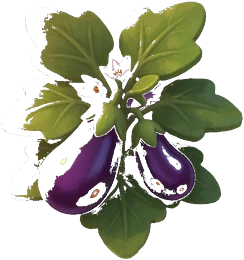
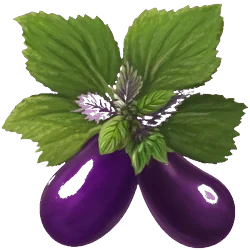
对齐宣传图 8.jpg：8 种成熟菜重画 + 垄沟田连成一块 + 远山去脏斑

diff --git a/src/js/mapview-iso.js b/src/js/mapview-iso.js
@@ -126,7 +126,7 @@
   const BLD = 0.7;   // global building-sprite scale (Chris 2026-06-18: buildings were too big) — shrinks all building sprites uniformly so the starter farm fits the central meadow
   const charmOf = (b) => Math.max(1, Math.round((b.cost || 0) / 8));
   const COOP_INTERVAL = 5 * 60 * 1000, COOP_REWARD = 30;   // 鸡舍每 5 分钟产一窝蛋，收一次 +30 农场币
-  const BED_W = 0.88;   // soil-bed width as a fraction of the cell → <1 leaves a grass gap so plots are distinct/tappable
+  const BED_W = 1.02;   // 宣传图是一整块垄沟田：格略重叠，垄线跨格连续
   // World-locked backdrop placement (mapview-iso _drawBackdrop). The landscape image's
   // focal point (BG_FX, BG_FY in image fractions = the central flat meadow) is pinned to
   // world cell (BG_ANCHOR_GX, BG_ANCHOR_GY) ≈ the farm start-area centre, and it scales
@@ -1617,11 +1617,22 @@
         ctx.ellipse(x + dx, y - s * 0.72 + dy, rx, ry, 0, 0, Math.PI * 2);
         ctx.fill();
       };
-      blob(0, s * 0.10, s * 0.50, s * 0.44, '#3a7038');
-      blob(-s * 0.24, s * 0.04, s * 0.36, s * 0.34, '#4a8640');
-      blob(s * 0.24, s * 0.06, s * 0.34, s * 0.32, '#4a8640');
-      blob(-s * 0.04, -s * 0.16, s * 0.30, s * 0.28, '#5fa04c');
-      blob(s * 0.10, -s * 0.10, s * 0.16, s * 0.14, 'rgba(255,220,140,0.22)');
+      blob(0, s * 0.08, s * 0.54, s * 0.48, '#3d7340');
+      blob(-s * 0.26, s * 0.02, s * 0.38, s * 0.36, '#52964a');
+      blob(s * 0.26, s * 0.04, s * 0.36, s * 0.34, '#4a8a42');
+      blob(-s * 0.02, -s * 0.20, s * 0.34, s * 0.30, '#6aad52');
+      blob(s * 0.12, -s * 0.12, s * 0.18, s * 0.16, 'rgba(255,220,140,0.28)');
+    },
+    _cypress(x, y, s) {
+      const ctx = this._ctx;
+      ctx.fillStyle = '#3d5c38';
+      ctx.beginPath();
+      ctx.ellipse(x, y - s * 0.95, s * 0.16, s * 0.95, 0, 0, Math.PI * 2);
+      ctx.fill();
+      ctx.fillStyle = '#5a7a40';
+      ctx.beginPath();
+      ctx.ellipse(x - s * 0.04, y - s * 1.15, s * 0.10, s * 0.55, 0, 0, Math.PI * 2);
+      ctx.fill();
     },
     _tuft(x, y, s) {
       const ctx = this._ctx; ctx.fillStyle = '#74b252';
@@ -1669,6 +1680,38 @@
     // Empty-plot soil bed: a painted soil cube EXTRACTED from a crop sprite, so it
     // matches the crops' own baked soil exactly → every plot (empty or planted) is a
     // consistent raised tilled bed. Bottom-anchored like the crops so heights line up.
+    _drawFurrowBed(c) {
+      // 宣传图那块田：扁的等距垄沟土面；垄线用屏幕斜率对齐，邻格连成一块田
+      const ctx = this._ctx, tw = this._tw(), th = this._th();
+      const w = tw * BED_W, h = th * BED_W;
+      const cy = c.y + th * 0.06;
+      this._diamond(c.x, cy, w, h);
+      const g = ctx.createLinearGradient(c.x - w * 0.45, cy - h * 0.35, c.x + w * 0.3, cy + h * 0.4);
+      g.addColorStop(0, '#c8965c');
+      g.addColorStop(0.42, '#a56a38');
+      g.addColorStop(1, '#6a3f20');
+      ctx.fillStyle = g;
+      ctx.fill();
+      ctx.save();
+      ctx.beginPath();
+      this._diamond(c.x, cy, w * 0.97, h * 0.93);
+      ctx.clip();
+      ctx.strokeStyle = 'rgba(62,34,14,0.42)';
+      ctx.lineWidth = Math.max(1.2, th * 0.08);
+      ctx.lineCap = 'round';
+      const slope = th / tw;
+      const spacing = th * 0.20;
+      const b0 = Math.round((cy - slope * c.x) / spacing) * spacing;
+      for (let k = -6; k <= 6; k++) {
+        const b = b0 + k * spacing;
+        const x1 = c.x - tw * 0.55, x2 = c.x + tw * 0.55;
+        ctx.beginPath();
+        ctx.moveTo(x1, slope * x1 + b);
+        ctx.lineTo(x2, slope * x2 + b);
+        ctx.stroke();
+      }
+      ctx.restore();
+    },
     _tilledDiamond(cx, cy) {
       const im = this._img.plot_bed, ctx = this._ctx, tw = this._tw(), th = this._th();
       if (im && im.width) { const w = tw * 1.04, s = w / im.width, hh = im.height * s; ctx.drawImage(im, cx - w / 2, cy + th * 0.6 - hh, w, hh); return; }
@@ -1683,14 +1726,8 @@
       // black "boards" / quilt). overlap a hair to hide anti-aliased seams.
       if (key === 'grass') return;   // grass = the smooth solid base fill (drawn in render); no per-tile quilt
       if (key === 'soil') {
-        // Chris's painted tilled-soil bed (raised cube). Drawn per plot → distinct
-        // raised beds on the green field, Hay-Day style. cy = top-face center fraction.
-        const im = this._img.hd_soil;
-        // BED_W < 1 leaves a small grass gap between adjacent beds so each plot
-        // reads as a DISTINCT, separately-tappable patch (Chris 2026-06-18: beds
-        // looked merged/stacked). Was tw*1.18 (overlapping → one brown mass).
-        if (im) { const w = tw * BED_W, sc = w / im.width, dh = im.height * sc; ctx.drawImage(im, c.x - w / 2, c.y - dh * 0.42, w, dh); return; }
-        this._diamond(c.x, c.y, tw * BED_W, th * BED_W); ctx.fillStyle = SOIL_TOP; ctx.fill(); return;
+        this._drawFurrowBed(c);
+        return;
       }
       // path / water = FLAT diamonds matching the flat ground (no raised cube → no
       // clash with the green field). Subtle detail keeps them readable.
@@ -2151,8 +2188,8 @@
       const hl = this._cell(0, -3).y;   // 林线 y(与 _drawHorizon 同一条对角线)
       // 整面铺草甸底色: 菱形之间的反锯齿细缝不再漏出天空色(亮格线的元凶)。
       // 从林脚以下起铺(hl+0.8th), 树脚由菱形格自然探上去咬合, 不再一刀切。
-      const gTop = Math.max(0, hl + th * 0.8);
-      ctx.fillStyle = 'rgb(132,168,68)';
+      const gTop = Math.max(0, hl + th * 2.8);
+      ctx.fillStyle = 'rgb(127,160,80)';
       ctx.fillRect(0, gTop, W, H - gTop);
       for (let gy = gy0; gy <= gy1; gy++) {
         for (let gx = gx0; gx <= gx1; gx++) {
@@ -2167,7 +2204,7 @@
           let rr, gg, bb2;
           // 农场基色: 大块起伏取代奇偶棋盘，近看也不像铺瓷砖
           const patch = Math.sin(gx * 0.52 + gy * 0.37) * 7 + Math.sin(gx * 0.19 - gy * 0.24) * 5;
-          const stripe = ((gx + gy) & 1) ? -1.2 : 0;
+          const stripe = ((gx + gy) & 1) ? -0.35 : 0;
           const nzIn = (r1 - 0.5) * 6;
           let fr = 134 + patch + stripe + nzIn, fg = 170 + patch * 0.85 + stripe + nzIn * 0.7, fb = 66 + patch * 0.4 + stripe * 0.6 + nzIn * 0.5;
           if (inWorld && !owned) { fr = fr * 0.95 + 7; fg = fg * 0.95 + 4; fb = fb * 0.93 + 7; }
@@ -2178,26 +2215,27 @@
           const dOut = Math.max(0, Math.max(-gx, -gy, gx - (COLS - 1), gy - (ROWS - 1)));
           const wMix = Math.max(0, Math.min(1, dOut / 6));
           rr = fr * (1 - wMix) + wr * wMix; gg = fg * (1 - wMix) + wg * wMix; bb2 = fb * (1 - wMix) + wb * wMix;
-          // 地平薄雾: 靠近林线的两行渐渐融进雾色
-          const dHl = (c.y - hl) / (th * 3.2);
+          // 地平：近山脚不画菱形格（宣传图远坡是一整片），再往前才淡入草地格
+          const dHl = (c.y - hl) / (th * 4.4);
+          if (dHl < 0.7) continue;
           if (dHl < 1) {
             const k = Math.max(0, Math.min(1, dHl));
             rr = rr * k + HAZE.r * (1 - k); gg = gg * k + HAZE.g * (1 - k); bb2 = bb2 * k + HAZE.b * (1 - k);
           }
-          // 远景收掉菱形条带对比，草地更像宣传图的一整片，而不是格子被单
-          if (dHl < 2.4) {
-            const fade = Math.max(0, Math.min(1, 1 - dHl / 2.4));
-            const midR = (rr + 132) / 2, midG = (gg + 168) / 2, midB = (bb2 + 68) / 2;
-            rr = rr * (1 - fade) + midR * fade;
-            gg = gg * (1 - fade) + midG * fade;
-            bb2 = bb2 * (1 - fade) + midB * fade;
+          if (dHl < 1.8) {
+            const fade = Math.max(0, Math.min(1, 1 - dHl / 1.8));
+            rr = rr * (1 - fade) + 127 * fade;
+            gg = gg * (1 - fade) + 160 * fade;
+            bb2 = bb2 * (1 - fade) + 80 * fade;
           }
           ctx.fillStyle = 'rgb(' + (rr | 0) + ',' + (gg | 0) + ',' + (bb2 | 0) + ')';
+          ctx.globalAlpha = dHl < 1.15 ? Math.max(0.15, (dHl - 0.7) / 0.45) : 1;
           this._diamond(c.x, c.y, tw * 1.08, th * 1.08);
           ctx.fill();
+          ctx.globalAlpha = 1;
           // 点缀: 草簇(内外都有, 外面更密) / 小花(只在农场内)
           const tuftP = inWorld ? 0.82 : 0.72;
-          if (r2 > tuftP && dHl > 0.55) {
+          if (r2 > tuftP && dHl > 1.15) {
             ctx.strokeStyle = inWorld ? '#5e8a38' : '#6d8840';
             ctx.lineWidth = Math.max(0.8, tw * 0.018); ctx.lineCap = 'round';
             const bx = c.x + (r1 - 0.5) * tw * 0.4, byy = c.y + (r2 - 0.5) * th * 0.4;
@@ -2222,27 +2260,8 @@
     },
     /* 云杉林的长影子：光从左上打来，影子往右下铺在草甸上。
        跟宣传图同一套光方向；画进相机缓存，30fps 零成本。 */
-    _drawTreeShadows(W, H, hl) {
-      const ctx = this._ctx, tw = this._tw(), th = this._th();
-      if (hl > H + th * 4 || hl < -th * 8) return;
-      ctx.save();
-      const step = tw * 1.35;
-      const x0 = -((this._camX * 0.7) % step) - step * 2;
-      for (let x = x0; x < W + step * 2; x += step) {
-        const seed = Math.abs(Math.round((x + this._camX) / step));
-        const hsh = ((seed * 2654435761) >>> 0) % 1000 / 1000;
-        if (hsh < 0.38) continue;
-        const len = th * (3.6 + hsh * 5.2);
-        const wid = tw * (0.42 + hsh * 0.28);
-        const ang = 0.58 + (hsh - 0.5) * 0.22;
-        const cx = x + tw * (0.6 + hsh * 0.5);
-        const cy = hl + th * 1.8 + len * 0.40;
-        ctx.fillStyle = 'rgba(32,44,16,0.08)';
-        ctx.beginPath(); ctx.ellipse(cx, cy, wid * 1.45, len * 1.12, ang, 0, 6.283); ctx.fill();
-        ctx.fillStyle = 'rgba(32,44,16,' + (0.12 + hsh * 0.06) + ')';
-        ctx.beginPath(); ctx.ellipse(cx, cy, wid, len, ang, 0, 6.283); ctx.fill();
-      }
-      ctx.restore();
+    _drawTreeShadows() {
+      // 云杉墙已经改成坡上散树，旧的林脚长影子会变成半山腰脏斑，不再画。
     },
     /* 整幅暖光罩：让作物/建筑贴图也沾上宣传图的金色侧光，很淡，不把菜染黄。 */
     _drawGoldenHour(W, H) {
@@ -2312,41 +2331,35 @@
       const ctx = this._ctx, tw = this._tw(), th = this._th();
       const hl = this._cell(0, -3).y;
       if (hl > H + th * 6) return;
+      // 对齐宣传图 8.jpg：远景是金绿滚圆草坡 + 零星圆树，没有锯齿云杉墙
       const hill = (yOff, amp, col, phase) => {
         ctx.fillStyle = col;
         ctx.beginPath();
-        const n = 28;
+        const n = 32;
         for (let i = 0; i <= n; i++) {
           const x = (i / n) * W;
-          const wx = (x + this._camX * 0.35) / (W / 2.2);
-          const ph = Math.sin(wx + phase) * amp + Math.sin(wx * 2.3 + phase * 1.7) * amp * 0.35;
+          const wx = (x + this._camX * 0.28) / (W / 2.4);
+          const ph = Math.sin(wx + phase) * amp + Math.sin(wx * 1.7 + phase * 1.4) * amp * 0.4;
           if (i === 0) ctx.moveTo(x, hl - yOff + ph); else ctx.lineTo(x, hl - yOff + ph);
         }
-        ctx.lineTo(W, hl + th * 2); ctx.lineTo(0, hl + th * 2); ctx.closePath(); ctx.fill();
+        ctx.lineTo(W, hl + th * 3); ctx.lineTo(0, hl + th * 3); ctx.closePath(); ctx.fill();
       };
-      hill(th * 6.2, th * 1.05, '#d2c4a0', 0.4);
-      hill(th * 4.6, th * 0.95, '#b8b07a', 1.6);
-      hill(th * 3.1, th * 1.15, '#7f9a58', 2.9);
-      ctx.fillStyle = '#2c4632';
-      ctx.beginPath();
-      ctx.moveTo(-tw, hl + th * 1.15);
-      const band = 22;
-      for (let i = 0; i <= band; i++) {
-        const x = (i / band) * W;
-        const wx = (x + this._camX) / (tw * 1.4);
-        ctx.lineTo(x, hl - th * (0.15 + 0.22 * (0.5 + 0.5 * Math.sin(wx * 1.7))));
-      }
-      ctx.lineTo(W + tw, hl + th * 1.15);
-      ctx.closePath();
-      ctx.fill();
-      const step = tw * 0.44;
-      const x0 = -((this._camX * 1.0) % step) - step * 2;
-      for (let x = x0; x < W + step * 2; x += step) {
-        const seed = Math.abs(Math.round((x + this._camX) / step));
+      hill(th * 7.4, th * 1.15, '#e8c99a', 0.3);
+      hill(th * 5.6, th * 1.05, '#d2c07a', 1.4);
+      hill(th * 4.0, th * 1.20, '#a8b86a', 2.6);
+      hill(th * 2.5, th * 0.95, '#7fa050', 0.9);
+      // 坡上散落圆树 + 几棵细柏，像宣传图后景，不要一排尖塔
+      const step = tw * 2.2;
+      const x0 = -((this._camX * 0.55) % step) - step;
+      for (let x = x0; x < W + step; x += step) {
+        const seed = Math.abs(Math.round((x + this._camX * 0.55) / step));
         const hsh = ((seed * 2654435761) >>> 0) % 1000 / 1000;
-        if (hsh < 0.10) continue;
-        const hgt = th * (1.15 + hsh * 2.15);
-        this._drawSpruce(x + (hsh - 0.5) * step * 0.7, hl + th * 0.52, hgt);
+        if (hsh < 0.22) continue;
+        const tx = x + (hsh - 0.5) * tw;
+        const ty = hl - th * (1.4 + hsh * 3.2);
+        const ts = tw * (0.42 + hsh * 0.50);
+        if (hsh > 0.78) this._cypress(tx, ty, ts * 1.15);
+        else this._tree(tx, ty, ts);
       }
     },
     /* 地平薄雾: 必须画在**地面之后**(第一版画在 _drawHorizon 里, 随即被地面
@@ -2355,11 +2368,11 @@
       const ctx = this._ctx, th = this._th();
       const hl = this._cell(0, -3).y;
       if (hl > H + th * 4 || hl < -th * 6) return;
-      const mist = ctx.createLinearGradient(0, hl - th * 0.6, 0, hl + th * 2.4);
-      mist.addColorStop(0, 'rgba(62,78,42,0.38)');
-      mist.addColorStop(0.4, 'rgba(220,190,130,0.26)');
+      const mist = ctx.createLinearGradient(0, hl - th * 0.8, 0, hl + th * 2.8);
+      mist.addColorStop(0, 'rgba(232,201,154,0.18)');
+      mist.addColorStop(0.45, 'rgba(220,190,130,0.08)');
       mist.addColorStop(1, 'rgba(220,190,130,0)');
-      ctx.fillStyle = mist; ctx.fillRect(0, hl - th * 0.6, W, th * 3.0);
+      ctx.fillStyle = mist; ctx.fillRect(0, hl - th * 0.8, W, th * 3.6);
     },
 
     _blitBackdrop(ctx, W, H) {
@@ -2578,9 +2591,7 @@
     _drawPlot(plot, gx, gy, idx) {
       const ctx = this._ctx, tw = this._tw(), th = this._th(), c = this._cell(gx, gy);
       if (!plot.unlocked) {   // locked → a DIMMED tilled bed (consistent with the field) + lock badge
-        const im = this._img.hd_soil;
-        if (im) { const w = tw * BED_W, sc = w / im.width, dh = im.height * sc; ctx.save(); ctx.globalAlpha = 0.5; ctx.drawImage(im, c.x - w / 2, c.y - dh * 0.42, w, dh); ctx.restore(); }
-        else { this._diamond(c.x, c.y, tw * 0.88, th * 0.88); ctx.fillStyle = 'rgba(120,90,60,0.5)'; ctx.fill(); }
+        ctx.save(); ctx.globalAlpha = 0.45; this._drawFurrowBed(c); ctx.restore();
         this._diamond(c.x, c.y, tw * 0.96, th * 0.96); ctx.fillStyle = 'rgba(55,65,50,0.3)'; ctx.fill();
         // 徽章 LOD（audit B2 P1）：只有「下一档可解锁」等级的地块画完整 🔒+Lv
         // 徽章（同档 ≤2 块，互不相邻遮挡）；更远档的锁定格只画一枚半透明小锁点，
@@ -2616,18 +2627,24 @@
       // soft contact shadow so the plant sits IN the bed (not floating)
       this._shadow(c.x, c.y + th * 0.42, tw * (0.4 + fr * 0.12));
       if (mature) {
-        // 根部金色光晕脉动: 丰收的暖意; 徽章 LOD 的低噪声档全靠它指认
         const pulse = 0.5 + 0.5 * Math.sin(tNow * 2.2 + gx + gy);
-        const gl = ctx.createRadialGradient(c.x, c.y + th * 0.30, th * 0.05, c.x, c.y + th * 0.30, tw * 0.52);
-        gl.addColorStop(0, 'rgba(255,214,110,' + (0.28 + pulse * 0.22) + ')');
+        const gl = ctx.createRadialGradient(c.x, c.y + th * 0.30, th * 0.04, c.x, c.y + th * 0.30, tw * 0.38);
+        gl.addColorStop(0, 'rgba(255,214,110,' + (0.10 + pulse * 0.08) + ')');
         gl.addColorStop(1, 'rgba(255,214,110,0)');
         ctx.fillStyle = gl;
-        ctx.beginPath(); ctx.ellipse(c.x, c.y + th * 0.30, tw * 0.52, th * 0.42, 0, 0, 6.283); ctx.fill();
+        ctx.beginPath(); ctx.ellipse(c.x, c.y + th * 0.30, tw * 0.38, th * 0.28, 0, 0, 6.283); ctx.fill();
       }
       let plantTopY = c.y - th * 1.3;   // fallback bubble anchor
-      if (ISO_CROPS[plot.crop]) {   // pure-plant 4-stage sprite — FIXED scale (260px base) → seedling small
+      if (ISO_CROPS[plot.crop]) {
         const im = this._lazyImg(ISO_CROPS[plot.crop] + '_' + fr);
-        if (im) { const s = (th * 1.5) / 260, w = im.width * s, h = im.height * s; const topY = (c.y + th * 0.34 - ripe) - h; ctx.drawImage(im, c.x - w / 2, topY, w, h); plantTopY = topY; }   // crop ref shrunk th*2.2→1.5 (Chris: 菜比房子大)
+        if (im) {
+          // 宣传图里菜把头铺满土床、根部埋进垄里，不要小贴纸飘在格子上
+          const s = (th * (0.92 + fr * 0.14)) / 260;
+          const w = im.width * s, h = im.height * s;
+          const topY = (c.y + th * 0.34 - ripe) - h;
+          ctx.drawImage(im, c.x - w / 2, topY, w, h);
+          plantTopY = topY;
+        }
         else { const def = Farm.crops.get(plot.crop); ctx.font = (th * 1.1) + 'px sans-serif'; ctx.fillText((def && def.icon) || '🌿', c.x, by); }
       } else if (mature) {
         const im = this._cropSprite(plot.crop);

diff --git a/docs/plans/2026-08-15-keyart-parity.md b/docs/plans/2026-08-15-keyart-parity.md
@@ -1,0 +1,25 @@
+# 场景对齐宣传图 8.jpg（2026-08-15）
+
+目标：游戏内成熟菜 + 整场（山/田/光）至少跟
+`promo/keyart-farm-square.jpg`（即 session `images/8.jpg`）一致，能超则超。
+
+约束：程序化世界（`USE_PAINTED_BG=false`）；vanilla JS；不改存档铁律；
+本轮不部署，除非对照过关且 Chris 说上。
+
+## 验收清单
+
+1. **成熟菜**：8 种 stage-3 是宣传图同款油画笔触，坐在垄沟里，无品红底板、
+   无脏根团、无橙色描边、无红四方。对照截图里能认出青菜/番茄/茄子/韭菜/
+   辣椒/黄瓜/香菜/蒜，且不像超市静物贴纸。
+2. **田**：已解锁地块连成一块扁垄沟田（垄线跨格连续），不是一格一块立方土。
+3. **远景**：滚圆金绿草坡 + 零星圆树，无锯齿云杉墙，山脚无深色横带/棋盘格。
+4. **构图对照**：干净截图（无成就 toast、无彩纸）与 8.jpg 左右并放，
+   菜在田上、房在田外。
+5. **语法**：`node --check src/js/mapview-iso.js` 通过。
+
+## 步骤
+
+- [x] s1 远山：再压山脚缝、远景不画菱形格
+- [x] s2 土床：世界对齐垄沟，BED 几乎顶满格
+- [x] s3 8 张成熟菜按 8.jpg 重画并抠净
+- [x] s4 干净构图截图，对照验收（见 promo/_verify-target.png）
